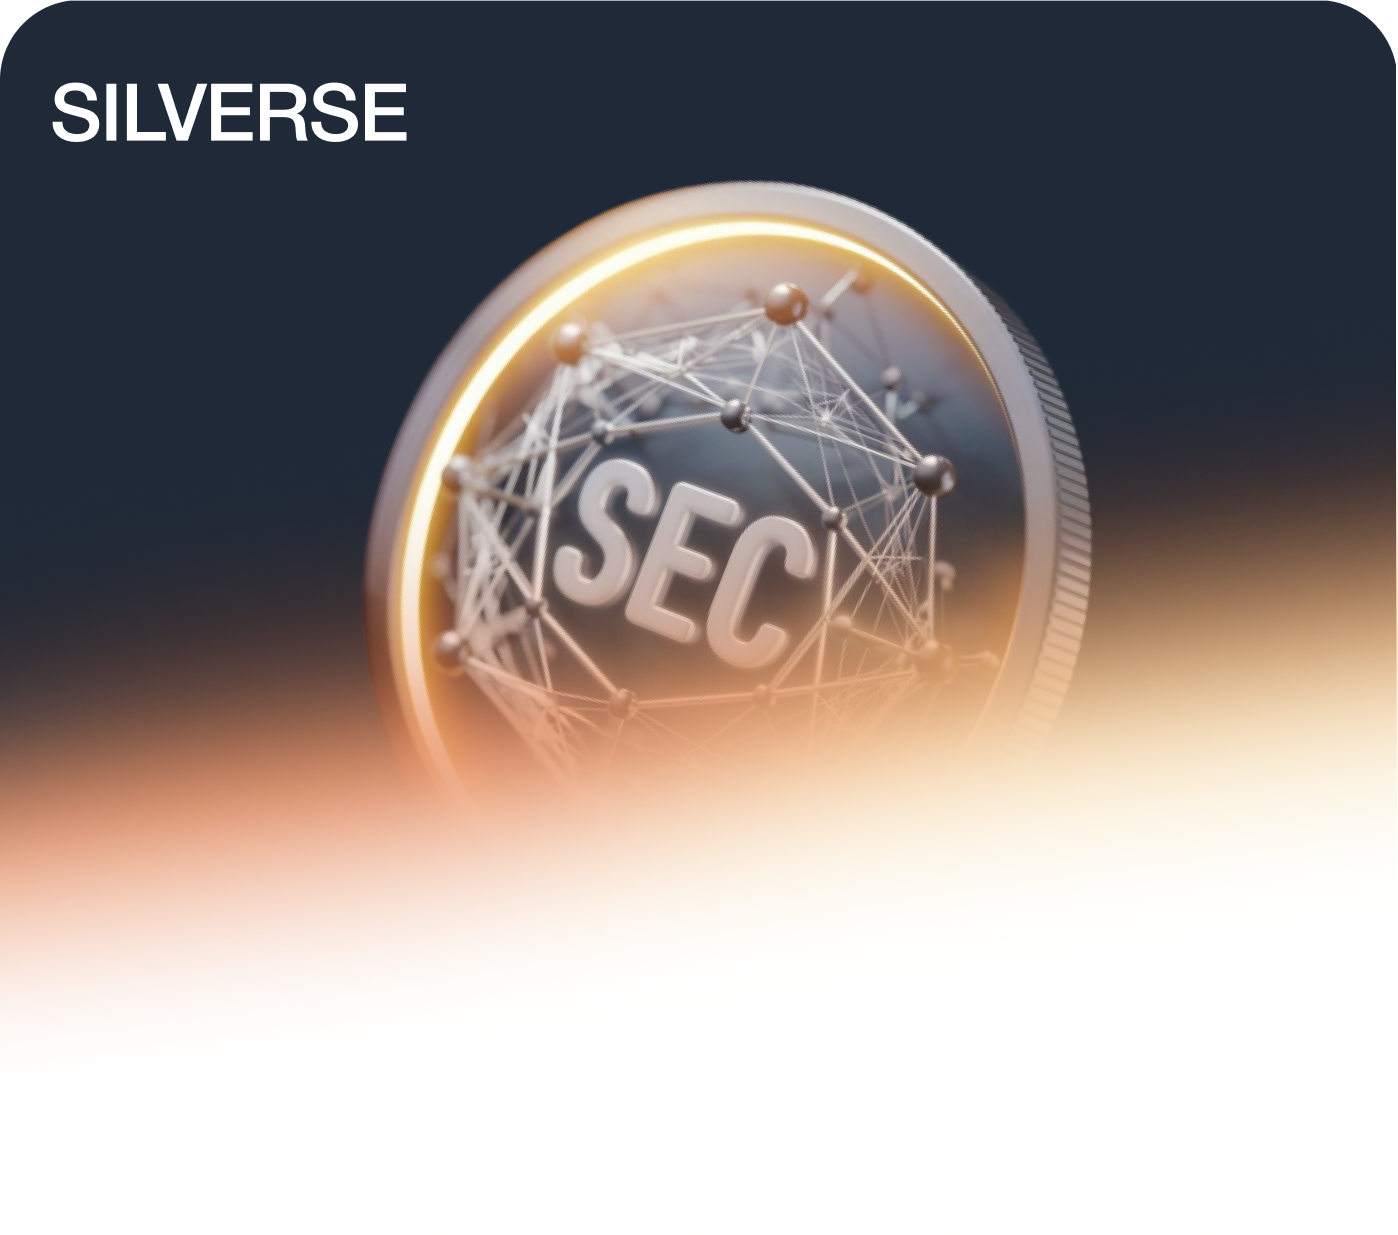
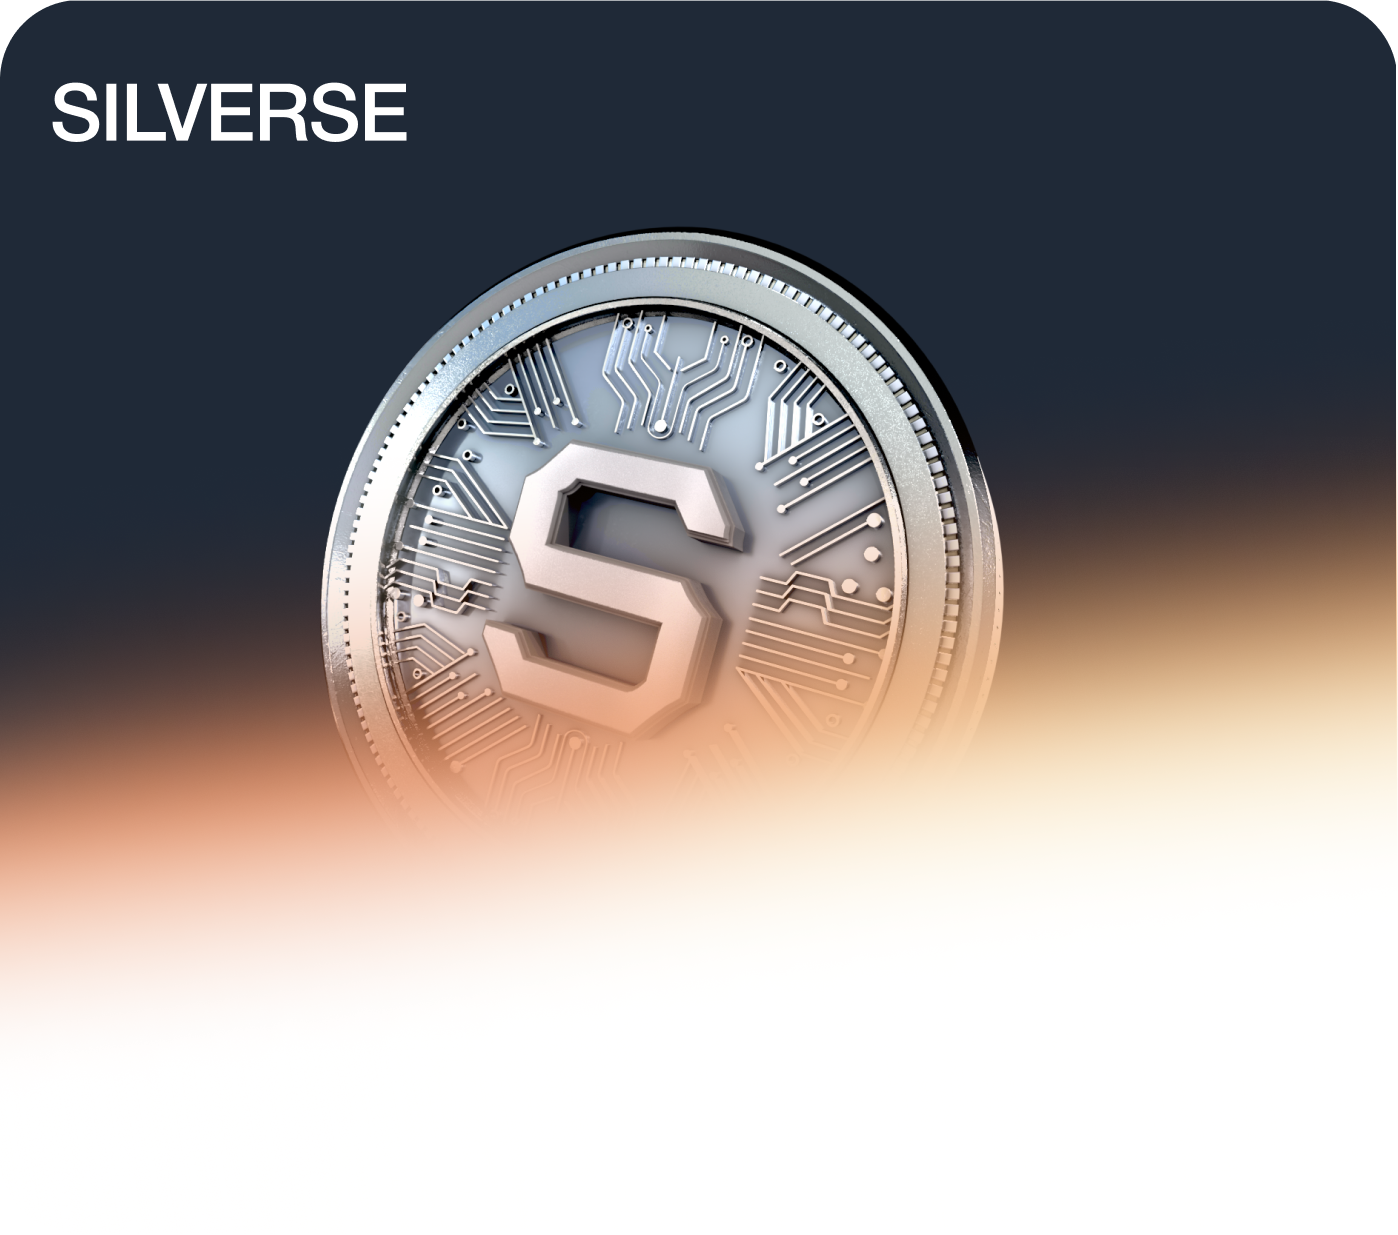
d

Changed region(s): [[0.2153, 0.1231, 0.7997, 0.6462]]

diff --git a/features/Hero.tsx b/features/Hero.tsx
@@ -22,6 +22,9 @@ import {
   HeroChart,
   HeroLeft,
   HeroRight,
+  LogoHeader,
+  LogoHeader2,
+  LogoHeader3,
   SECLogo,
 } from "../assets/imgs";
 import ArrowUp from "../assets/vectors/ArrowUp";
@@ -171,17 +174,17 @@ function Hero() {
                 </Box>
                 <Box opacity={0} pos={"absolute"} className={styles[`sec2`]}>
                   <AspectRatio ratio={1} w={{ base: 42, sm: 67, xl: 70 }}>
-                    <Image src={SECLogo.src} alt="" />
+                    <Image src={LogoHeader.src} alt="" />
                   </AspectRatio>
                 </Box>
                 <Box opacity={0} pos={"absolute"} className={styles[`sec3`]}>
                   <AspectRatio ratio={1} w={{ base: 42, sm: 67, xl: 70 }}>
-                    <Image src={SECLogo.src} alt="" />
+                    <Image src={LogoHeader2.src} alt="" />
                   </AspectRatio>
                 </Box>
                 <Box opacity={0} pos={"absolute"} className={styles[`sec4`]}>
                   <AspectRatio ratio={1} w={{ base: 42, sm: 67, xl: 70 }}>
-                    <Image src={SECLogo.src} alt="" />
+                    <Image src={LogoHeader3.src} alt="" />
                   </AspectRatio>
                 </Box>
                 {/* mask */}

diff --git a/features/Footer.tsx b/features/Footer.tsx
@@ -136,7 +136,12 @@ function Footer() {
             </Text>
           )}
 
-          <Flex w={{ base: "50%", sm: "20%" }} gap={"xs"} align={"center"}>
+          <Flex
+            w={{ base: "50%", sm: "20%" }}
+            gap={"xs"}
+            align={"center"}
+            justify={{ base: "flex-start", md: "center" }}
+          >
             <AspectRatio ratio={1} w={{ base: 27, xl: 40 }}>
               <Image src={LogoHeader.src} alt="" />
             </AspectRatio>

diff --git a/assets/imgs/index.ts b/assets/imgs/index.ts
@@ -33,6 +33,8 @@ import PolyLight from "./PolyLight.png";
 import ArrowAnim from "./ArrowAnim.png";
 import LogoHeader from "./LogoHeader.png";
 import FloatingCoin from "./FloatingCoin.png";
+import LogoHeader2 from "./LogoHeader2.png";
+import LogoHeader3 from "./LogoHeader3.png";
 
 export {
   HeroBG,
@@ -69,5 +71,7 @@ export {
   PolyLight,
   ArrowAnim,
   LogoHeader,
-  FloatingCoin
+  FloatingCoin,
+  LogoHeader2,
+  LogoHeader3
 };

diff --git a/components/HeroSwap/coin.data.ts b/components/HeroSwap/coin.data.ts
@@ -1,10 +1,10 @@
 import { StaticImageData } from "next/image";
-import { Bitcoin, SECCoin, TetherCoin } from "../../assets/imgs";
+import { Bitcoin, LogoHeader, SECCoin, TetherCoin } from "../../assets/imgs";
 
 export const coinDataList: CoinDataProps[] = [
   {
     symbol: "SEC",
-    icon: SECCoin,
+    icon: LogoHeader,
     name: "SEC Coin",
   },
   {
